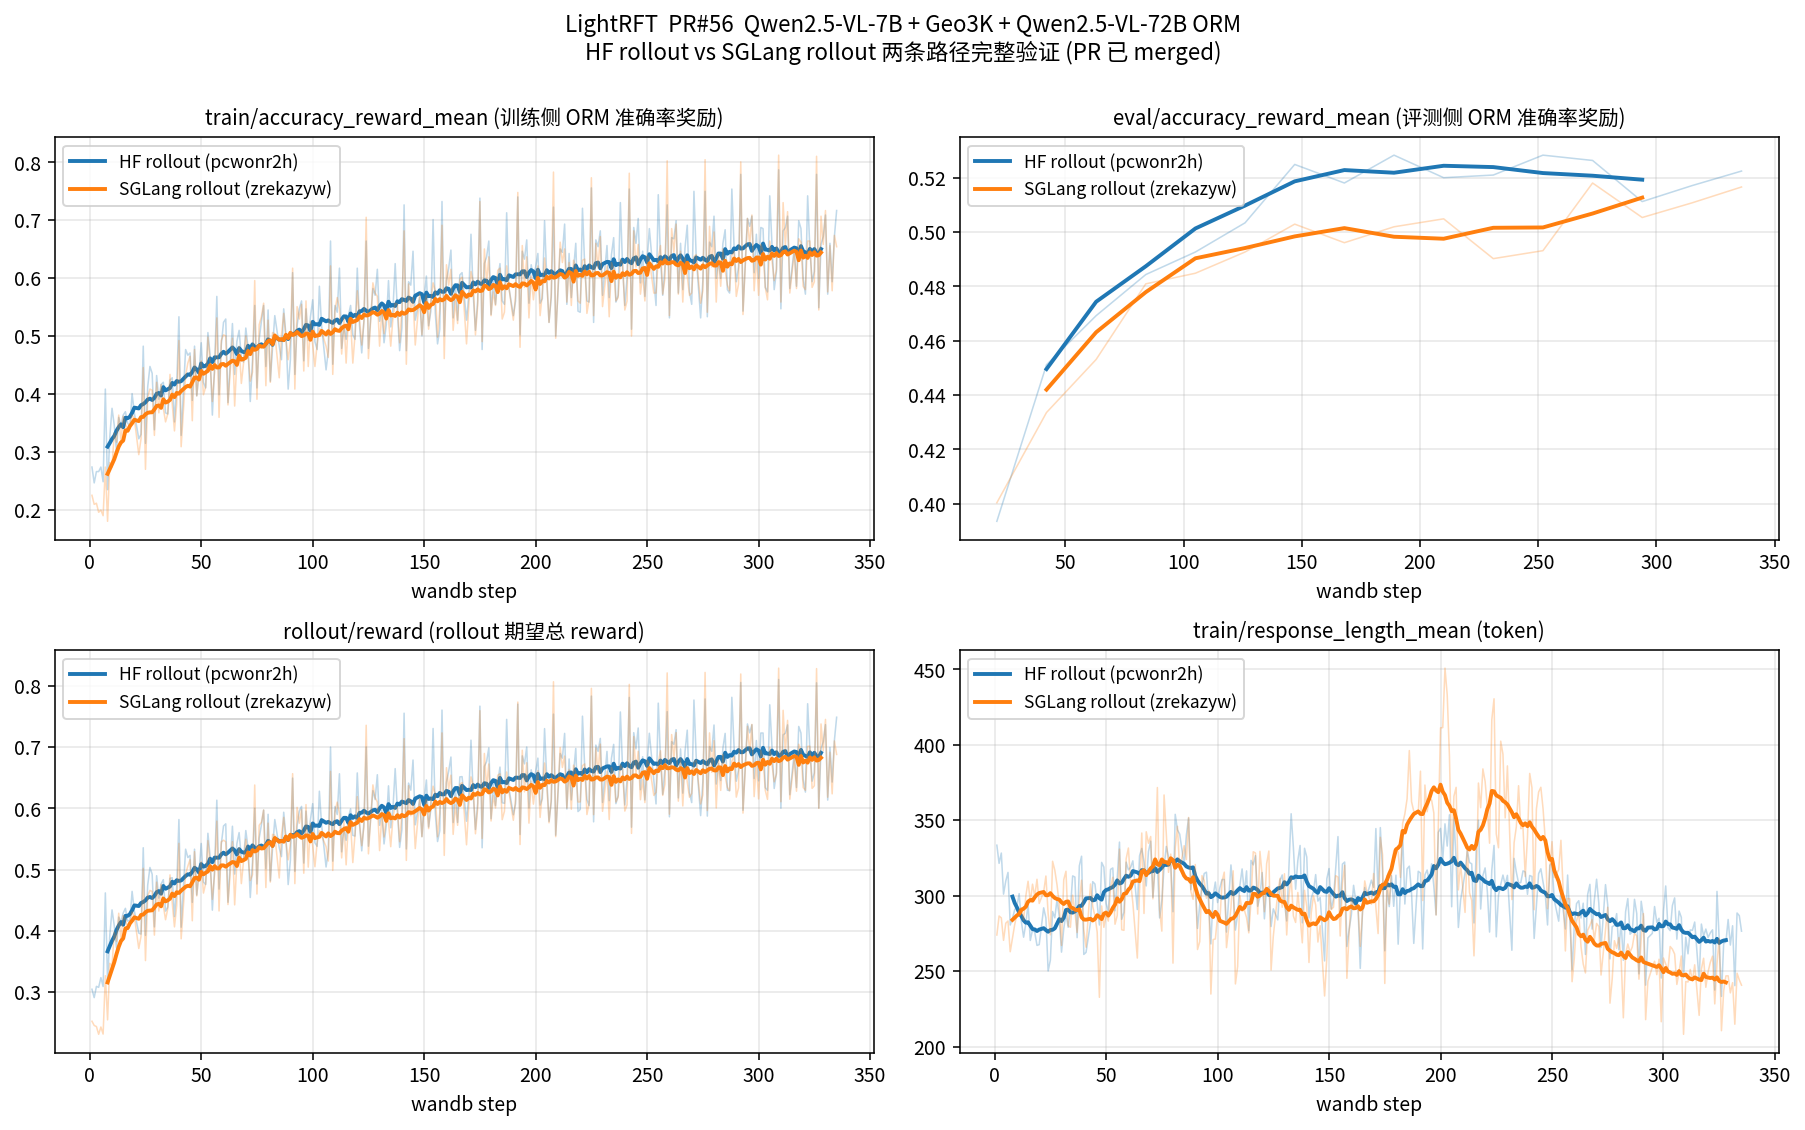
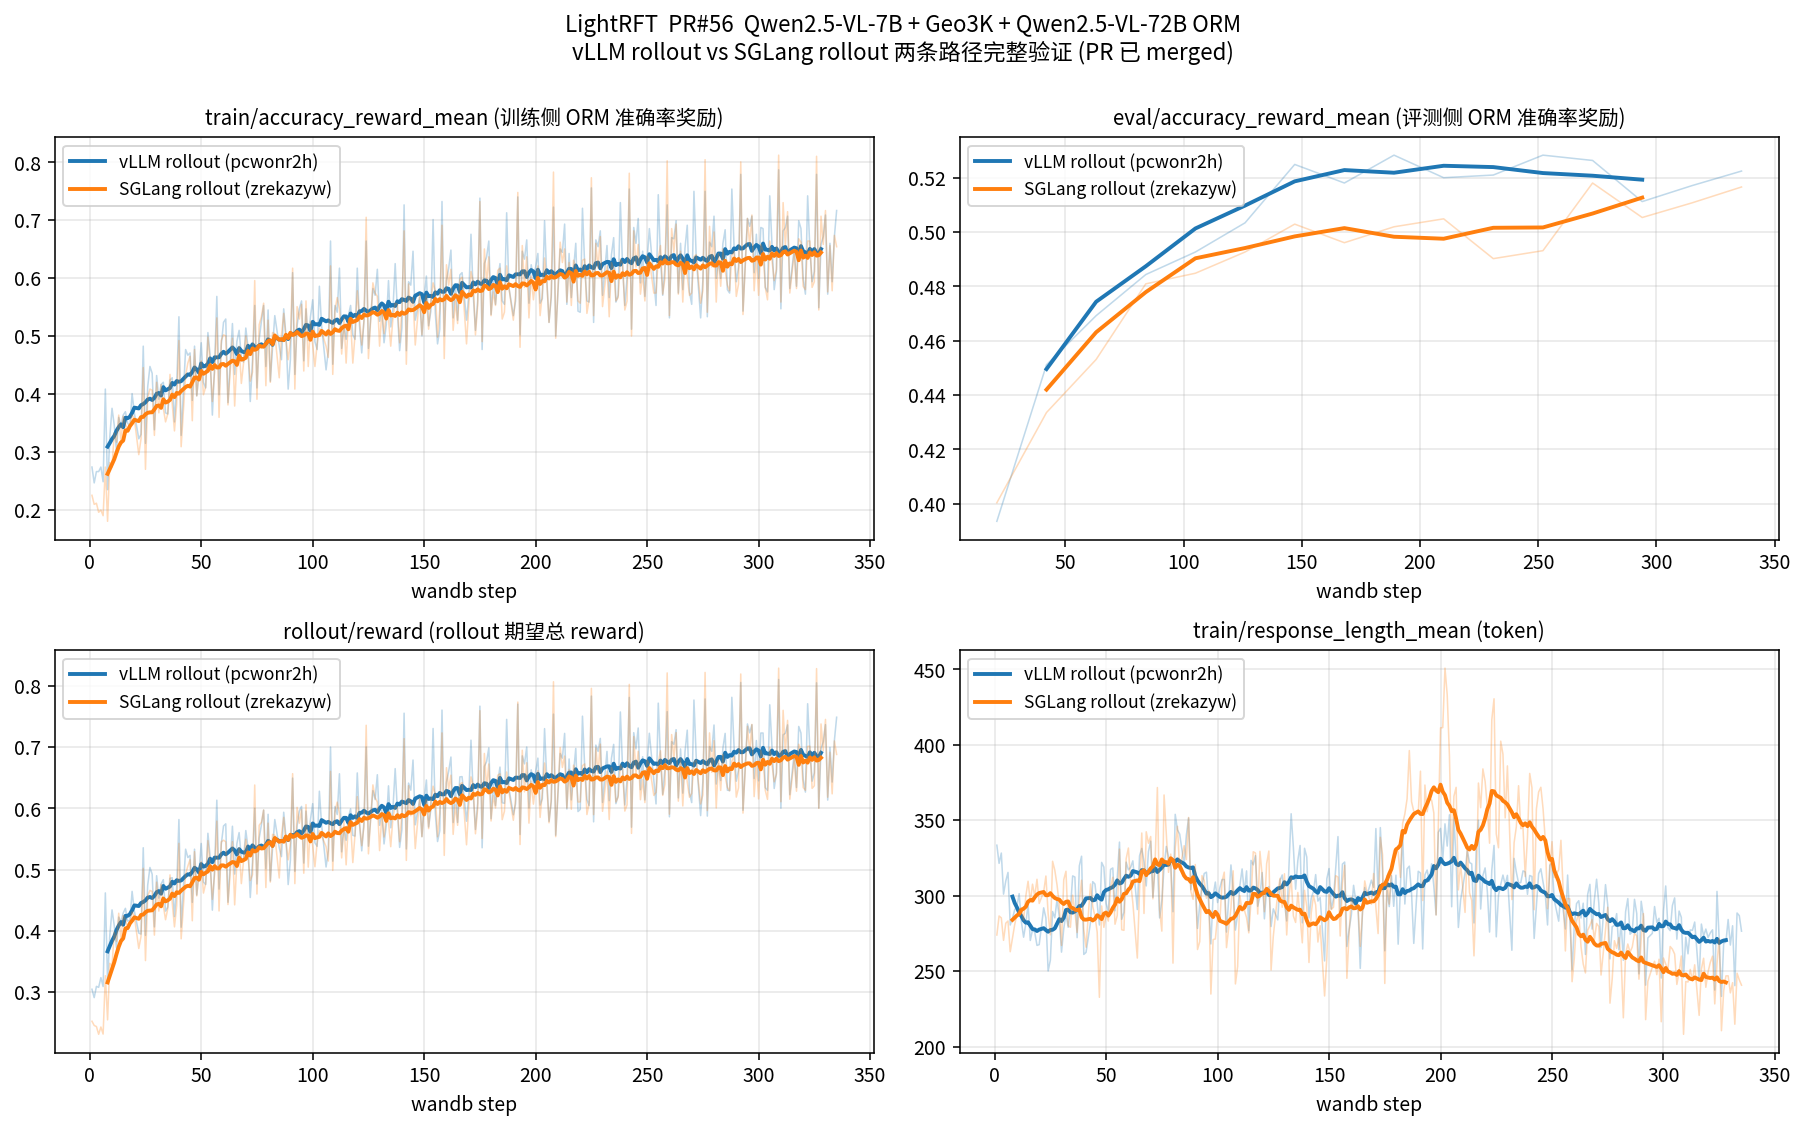
report: fix PR#56 backend label HF -> vLLM (per pcwonr2h actual config: rollout engine=vllm)

diff --git a/biweekly_report.md b/biweekly_report.md
@@ -18,7 +18,7 @@
 | 1 | Qwen3-8B SETA terminal-rl 训练 | ✅ | 3 次 run + env-pool 全栈复盘 + 4 个 issue |
 | 2 | agentic-rl 探索/利用改进调研 | ✅ | [openclaw-rl#6](https://github.com/HansBug/OpenClaw-RL/issues/6) |
 | 5a | LightRFT [PR#53](https://github.com/opendilab/LightRFT/pull/53) PRM 训练 + accuracy debug | 🔄 **仍在 debug** | KL bug 已定位修复 (30→4e-4)；accuracy 不上升真问题、main 冲突、PRM 变体 1、freeze_prefix 修复均待办 |
-| 5b | LightRFT [PR#56](https://github.com/opendilab/LightRFT/pull/56) Geo3K ORM-RL demo | ✅ 收尾 (merged) | HF + SGLang 双路径完整验证 |
+| 5b | LightRFT [PR#56](https://github.com/opendilab/LightRFT/pull/56) Geo3K ORM-RL demo | ✅ 收尾 (merged) | vLLM + SGLang 双路径完整验证 |
 | 6 | 7B-70B agentic-rl 开源 base 调研 | ✅ TOP3 给出 | [openclaw-rl#6 §3](https://github.com/HansBug/OpenClaw-RL/issues/6) |
 | 3 | Harbor + terminus2 + Qwen3-8B benchmark | ❌ 0%（环境基础已就位） | [openclaw-rl#5 Phase 1](https://github.com/HansBug/OpenClaw-RL/issues/5) 待执行 |
 | 4 | camel-agent vs terminus2 对比文档 | ❌ 0%（依赖 #3） | [openclaw-rl#5 Phase 2](https://github.com/HansBug/OpenClaw-RL/issues/5) 待执行 |
@@ -97,14 +97,14 @@
 
 [`opendilab/LightRFT#56`](https://github.com/opendilab/LightRFT/pull/56)（state: **MERGED** @ 2026-04-29）：最小化的端到端 ORM-RL demo 实验，专门让 ORM RL workflow 容易理解、运行、debug。两条 rollout 路径完整长训验证后已收尾合入 main：
 
-| Rollout 后端 | wandb run | 配置 |
-|---|---|---|
-| HF rollout | [`pcwonr2h`](https://wandb.ai/hansbug/ORM-RL-Demo-QwenVL-7B-Geo3K/runs/pcwonr2h) | `ORM-RL-Demo-Geo3K-General-04161630` (2 GPU) |
-| SGLang rollout | [`zrekazyw`](https://wandb.ai/hansbug/ORM-RL-Demo-QwenVL-7B-Geo3K/runs/zrekazyw) | `ORM-RL-Demo-Geo3K-General-SGLang-20260417_150451` |
+| Rollout 后端 | wandb run | run name | 配置 |
+|---|---|---|---|
+| **vLLM** rollout | [`pcwonr2h`](https://wandb.ai/hansbug/ORM-RL-Demo-QwenVL-7B-Geo3K/runs/pcwonr2h) | `ORM-RL-Demo-Geo3K-General-04161630` | 2 GPU / 320 step / `rollout engine = vllm` / `rm_use_engine=True (vllm)` |
+| **SGLang** rollout | [`zrekazyw`](https://wandb.ai/hansbug/ORM-RL-Demo-QwenVL-7B-Geo3K/runs/zrekazyw) | `ORM-RL-Demo-Geo3K-General-SGLang-20260417_150451` | 同等配置切到 SGLang + RM engine |
 
-![LightRFT PR#56 Geo3K HF vs SGLang](figs/fig4_lightrft_pr56.png)
+![LightRFT PR#56 Geo3K vLLM vs SGLang](figs/fig4_lightrft_pr56.png)
 
-> 4 panel：train/eval 的 accuracy_reward_mean、rollout/reward、response_length。两条路径独立训练曲线收敛到相近的 reward 水位（train acc reward ~0.65，eval acc reward ~0.55），证明 PR#56 的 demo 在两个 rollout 后端下都能正确跑通 ORM-RL 学习。响应长度上 HF rollout 略稳定（350 token 区间），SGLang 后期开始下行。
+> 4 panel：train/eval 的 accuracy_reward_mean、rollout/reward、response_length。两条 rollout 后端独立训练，曲线收敛到相近的 reward 水位（train acc reward ~0.65，eval acc reward ~0.55），证明 PR#56 demo 在 vLLM 与 SGLang 两条路径下都能正确跑通 ORM-RL 学习。响应长度上 vLLM 略稳定（350 token 区间），SGLang 后期开始下行。
 
 ---
 
